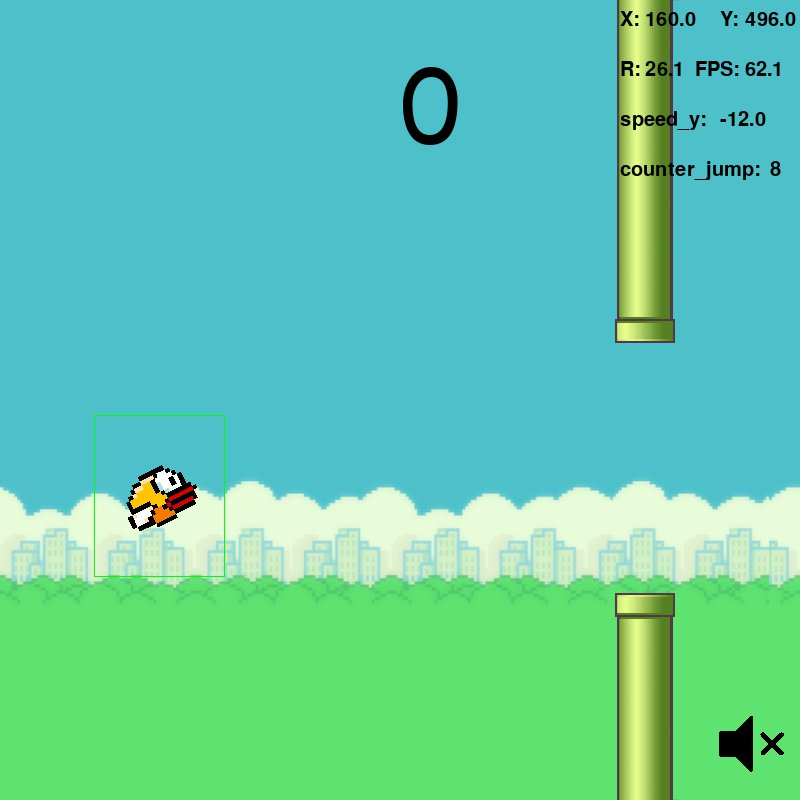
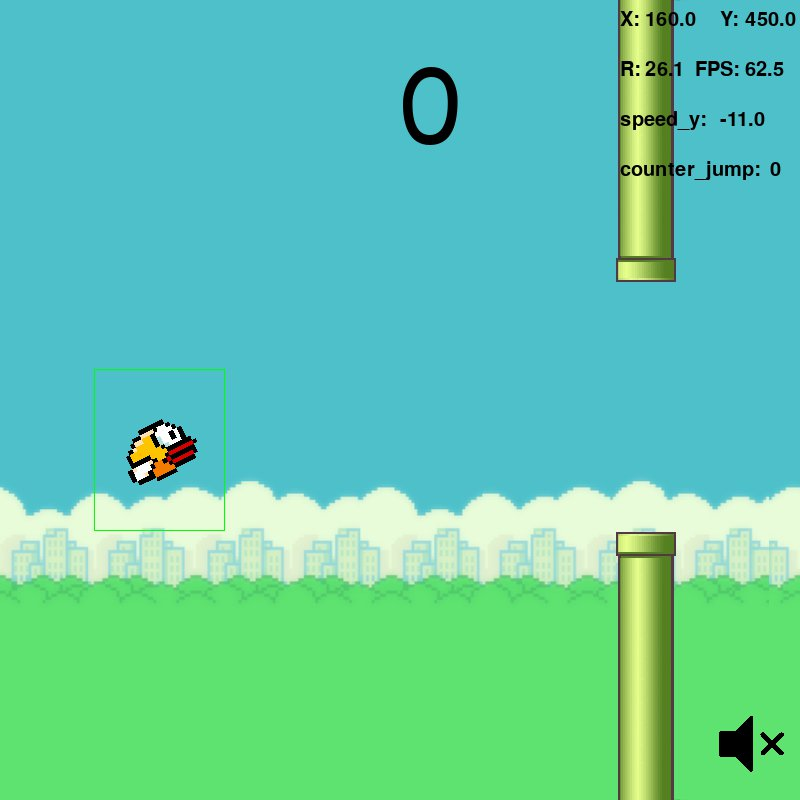
Add: The game freezes after losing

diff --git a/main.py b/main.py
@@ -30,15 +30,18 @@ pause_trig, pause_trig_before, p_trig_pause = False, False, False
 
 score, score_trig, score_trig_before, p_trig_score = 0, False, False, False
 
+# global variable, current player frame in animation
+current_player_frame = 0
+# ------------for player----------------------------
 # collecting beginning set up position of character
 pos_x = const.x_ch
 pos_y = const.y_ch
-# global variable, current player frame in animation
-current_player_frame = 0
 # global variable, character death animation
 kill_player = False
 # global variable, character death sound, it allows to create the effect one at a time
 play_loop_kill_player_sound = True
+
+game_over_fun_active = False
 
 # ------------for walls----------------------------
 # list containing all walls
@@ -50,10 +53,7 @@ buton_mute_image = []
 # Right mouse button
 click_button = False
 mouse_is_over_the_button = False
-# allows to play music only once in a game loop
-play_loop_music = True
 # turns music on and off
-
 music_button_plays, music_trig, music_trig_before, p_trig_music = False, False, False, True
 # ------------for others-----------------------------
 trig_screenshot = True
@@ -62,6 +62,7 @@ i = 0
 key_space_down = False
 key_space_up = False
 key_space_down_before = False
+
 # -----------game texts-------------------------------
 game_texts_image = []
 game_texts_center_pos = []
@@ -69,7 +70,7 @@ game_texts_center_pos = []
 # ----------------------------------------------------
 
 
-def play_music(play):
+def do_play_music(play):
     # Initialize Mixer in the program
     mixer.init()
     pygame.mixer.music.load('music\\bensound-summer_ogg_music.ogg')
@@ -297,10 +298,8 @@ def drawn_buton():
 
     if music_button_plays:
         buton_mute_surf = buton_mute_image[0]
-        pass
     else:
         buton_mute_surf = buton_mute_image[1]
-        pass
 
     buton_mute_rect = buton_mute_surf.get_rect(center=(buton_mute_pos))
     window.blit(buton_mute_surf, buton_mute_rect)
@@ -338,7 +337,7 @@ def drawn_buton():
         else:
             music_button_plays = True
 
-        play_music(music_button_plays)
+        do_play_music(music_button_plays)
         p_trig_music = False
 
 
@@ -365,7 +364,7 @@ def do_sprite(image, how_many_frame, which_frame, scale, alfa_color):
 
 
 def clock_support():
-    global delta_time
+    global delta_time, pause
     # const.framerate = 60
     # dt show how many milliseconds have passed since the previous call
     # the program will never run at more than const.framerate frames per second
@@ -510,7 +509,8 @@ def count_points(do_fun, no_mute):
 def key_pause():
     # do once
     # global i
-    global pause, pause_trig, pause_trig_before, p_trig_pause
+
+    global pause, pause_trig, pause_trig_before, p_trig_pause, kill_player
     keys = pygame.key.get_pressed()
 
     if keys[pygame.K_p]:
@@ -533,7 +533,8 @@ def key_pause():
             pause = True
         p_trig_pause = False
 
-    show_pause(pause)
+    if not game_over_fun_active:
+        show_pause(pause)
 
 
 def game_texts_image_preload(game_texts_image, scale):
@@ -575,10 +576,25 @@ def show_pause(show):
         window.blit(game_texts_image[0], (game_texts_center_pos[0]))
 
 
-def show_game_over(show):
-    if show:
-        global window, game_texts_image, game_texts_center_pos
-        window.blit(game_texts_image[1], (game_texts_center_pos[1]))
+def show_game_over():
+    global window, game_texts_image, game_texts_center_pos
+    window.blit(game_texts_image[1], (game_texts_center_pos[1]))
+
+
+def game_over(perform):
+    global kill_player, pause, game_over_fun_active, current_player_frame, music_button_plays
+    game_over_fun_active = perform
+    # perform = False
+
+    if perform:
+        if kill_player:
+            current_player_frame = 3
+            show_game_over()
+            music_button_plays = False
+            # this is doing in a loop all the time !!! to improve ...
+            do_play_music(music_button_plays)
+            pause = True
+
 
 
 ###---------------------------------GAMING-LOOP---------------------------------###
@@ -661,9 +677,8 @@ while running:
     show_score()
 
     key_pause()
-
-    show_game_over(kill_player)
-
+    # game_over(True)
+    threading.Thread(target=game_over, args=[True]).start()
 
     # make screenshot after 0.5 sec
     screenshot_fun(0.5)
